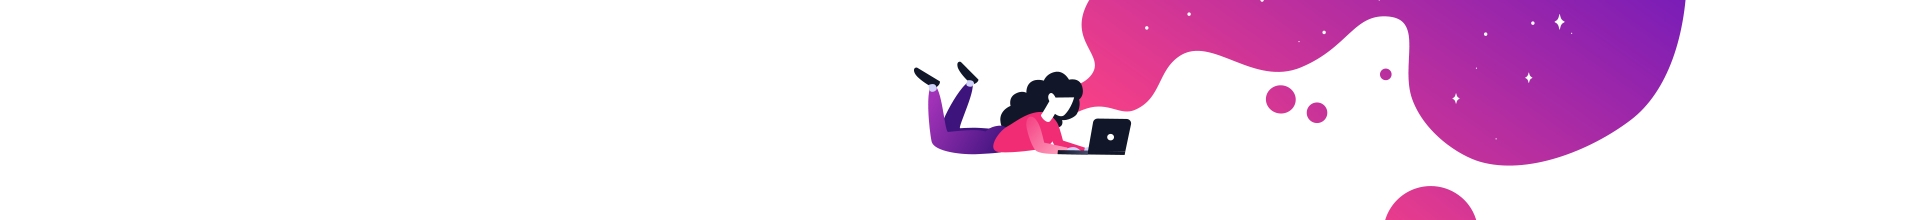
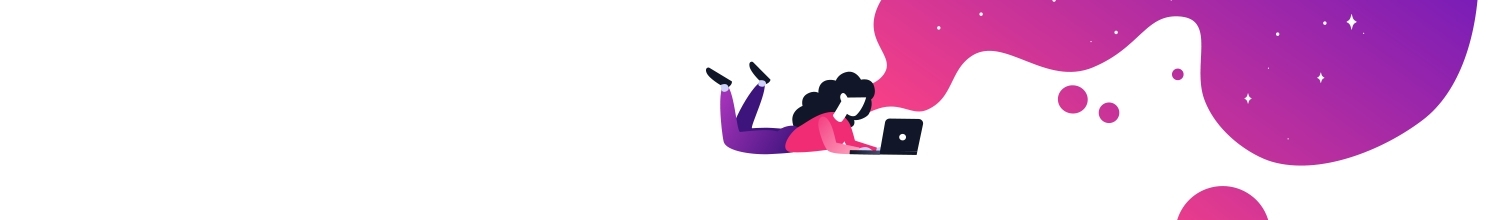
did top section

Changed region(s): [[0.46, 0.0, 1.0, 0.7636], [0.7053, 0.8455, 0.8587, 1.0]]

diff --git a/src/style/sections/_index-top.scss b/src/style/sections/_index-top.scss
@@ -1,0 +1,136 @@
+.index-top {
+  position: relative;
+  z-index: 1;
+  background-color: #fff;
+  &::before {
+    position: absolute;
+    top: 0;
+    right: 0;
+    left: 0;
+    width: 100%;
+    height: 775px;
+    content: '';
+    background-image: url('../img/bg-index-top.png');
+    background-repeat: no-repeat;
+    background-position: 50% 0;
+    @include max(950) {
+      background-position: 0 0;
+    }
+  }
+  .container {
+    display: flex;
+    align-items: center;
+    min-height: 700px;
+    padding-top: 30px;
+    padding-bottom: 30px;
+    @include max(950) {
+      flex-direction: column;
+    }
+  }
+}
+
+.index-top__info {
+  position: relative;
+  z-index: 1;
+}
+
+.index-top__title {
+  font-family: $font-title;
+  font-size: 55px;
+  font-weight: 500;
+  line-height: 1;
+  margin-bottom: 15px;
+  color: #fff;
+  @include max(600) {
+    font-size: 40px;
+  }
+  @include max(425) {
+    font-size: 30px;
+  }
+}
+
+.index-top__subtitle {
+  font-family: $font;
+  font-size: 35px;
+  font-weight: 300;
+  line-height: 35px;
+  margin-bottom: 30px;
+  color: #fff;
+  @include max(600) {
+    font-size: 28px;
+    margin-bottom: 15px;
+  }
+  @include max(425) {
+    font-size: 22px;
+  }
+}
+
+.index-top__text {
+  max-width: 330px;
+  @include max(950) {
+    max-width: 630px;
+  }
+  p {
+    font-family: $font;
+    font-size: 14px;
+    font-weight: 300;
+    line-height: 23px;
+    display: inline-block;
+    margin-bottom: 12px;
+    color: #fff;
+  }
+}
+
+.index-top__video {
+  position: absolute;
+  top: 0;
+  right: 55px;
+  bottom: 0;
+  width: 100%;
+  max-width: 800px;
+  height: 450px;
+  margin: auto;
+  @include max(1200) {
+    max-width: 630px;
+    height: 340px;
+  }
+
+  @include max(1024) {
+    right: 30px;
+  }
+  @include max(950) {
+    position: relative;
+    right: 0;
+    margin-top: 30px;
+  }
+  @include max(500) {
+    height: 250px;
+  }
+  @include max(425) {
+    height: 180px;
+  }
+  &::before {
+    position: absolute;
+    top: 0;
+    right: 0;
+    bottom: 0;
+    left: 0;
+    margin: auto;
+    content: '';
+    pointer-events: none;
+    background-color: rgba(0, 0, 0, .5);
+    @include max(950) {
+      display: none;
+    }
+  }
+
+  //@include max(768) {
+  //  right: 20px;
+  //}
+
+  iframe {
+    display: block;
+    width: 100%;
+    height: 100%;
+  }
+}

diff --git a/src/style/sections/_rss.scss b/src/style/sections/_rss.scss
@@ -2,8 +2,8 @@
   background-color: #fff;
   background-image: url('../img/bg-rss.jpg');
   background-repeat: no-repeat;
-  background-position: 50% 0;
-  background-size: cover;
+  background-position: 65% 0;
+  background-size: contain;
   .container {
     display: flex;
     justify-content: space-between;

diff --git a/src/style/app.scss b/src/style/app.scss
@@ -55,6 +55,7 @@
 @import 'sections/about-teacher';
 @import 'sections/about-teachers';
 @import 'sections/rss';
+@import 'sections/index-top';
 
 //pages
 @import 'pages/index';
